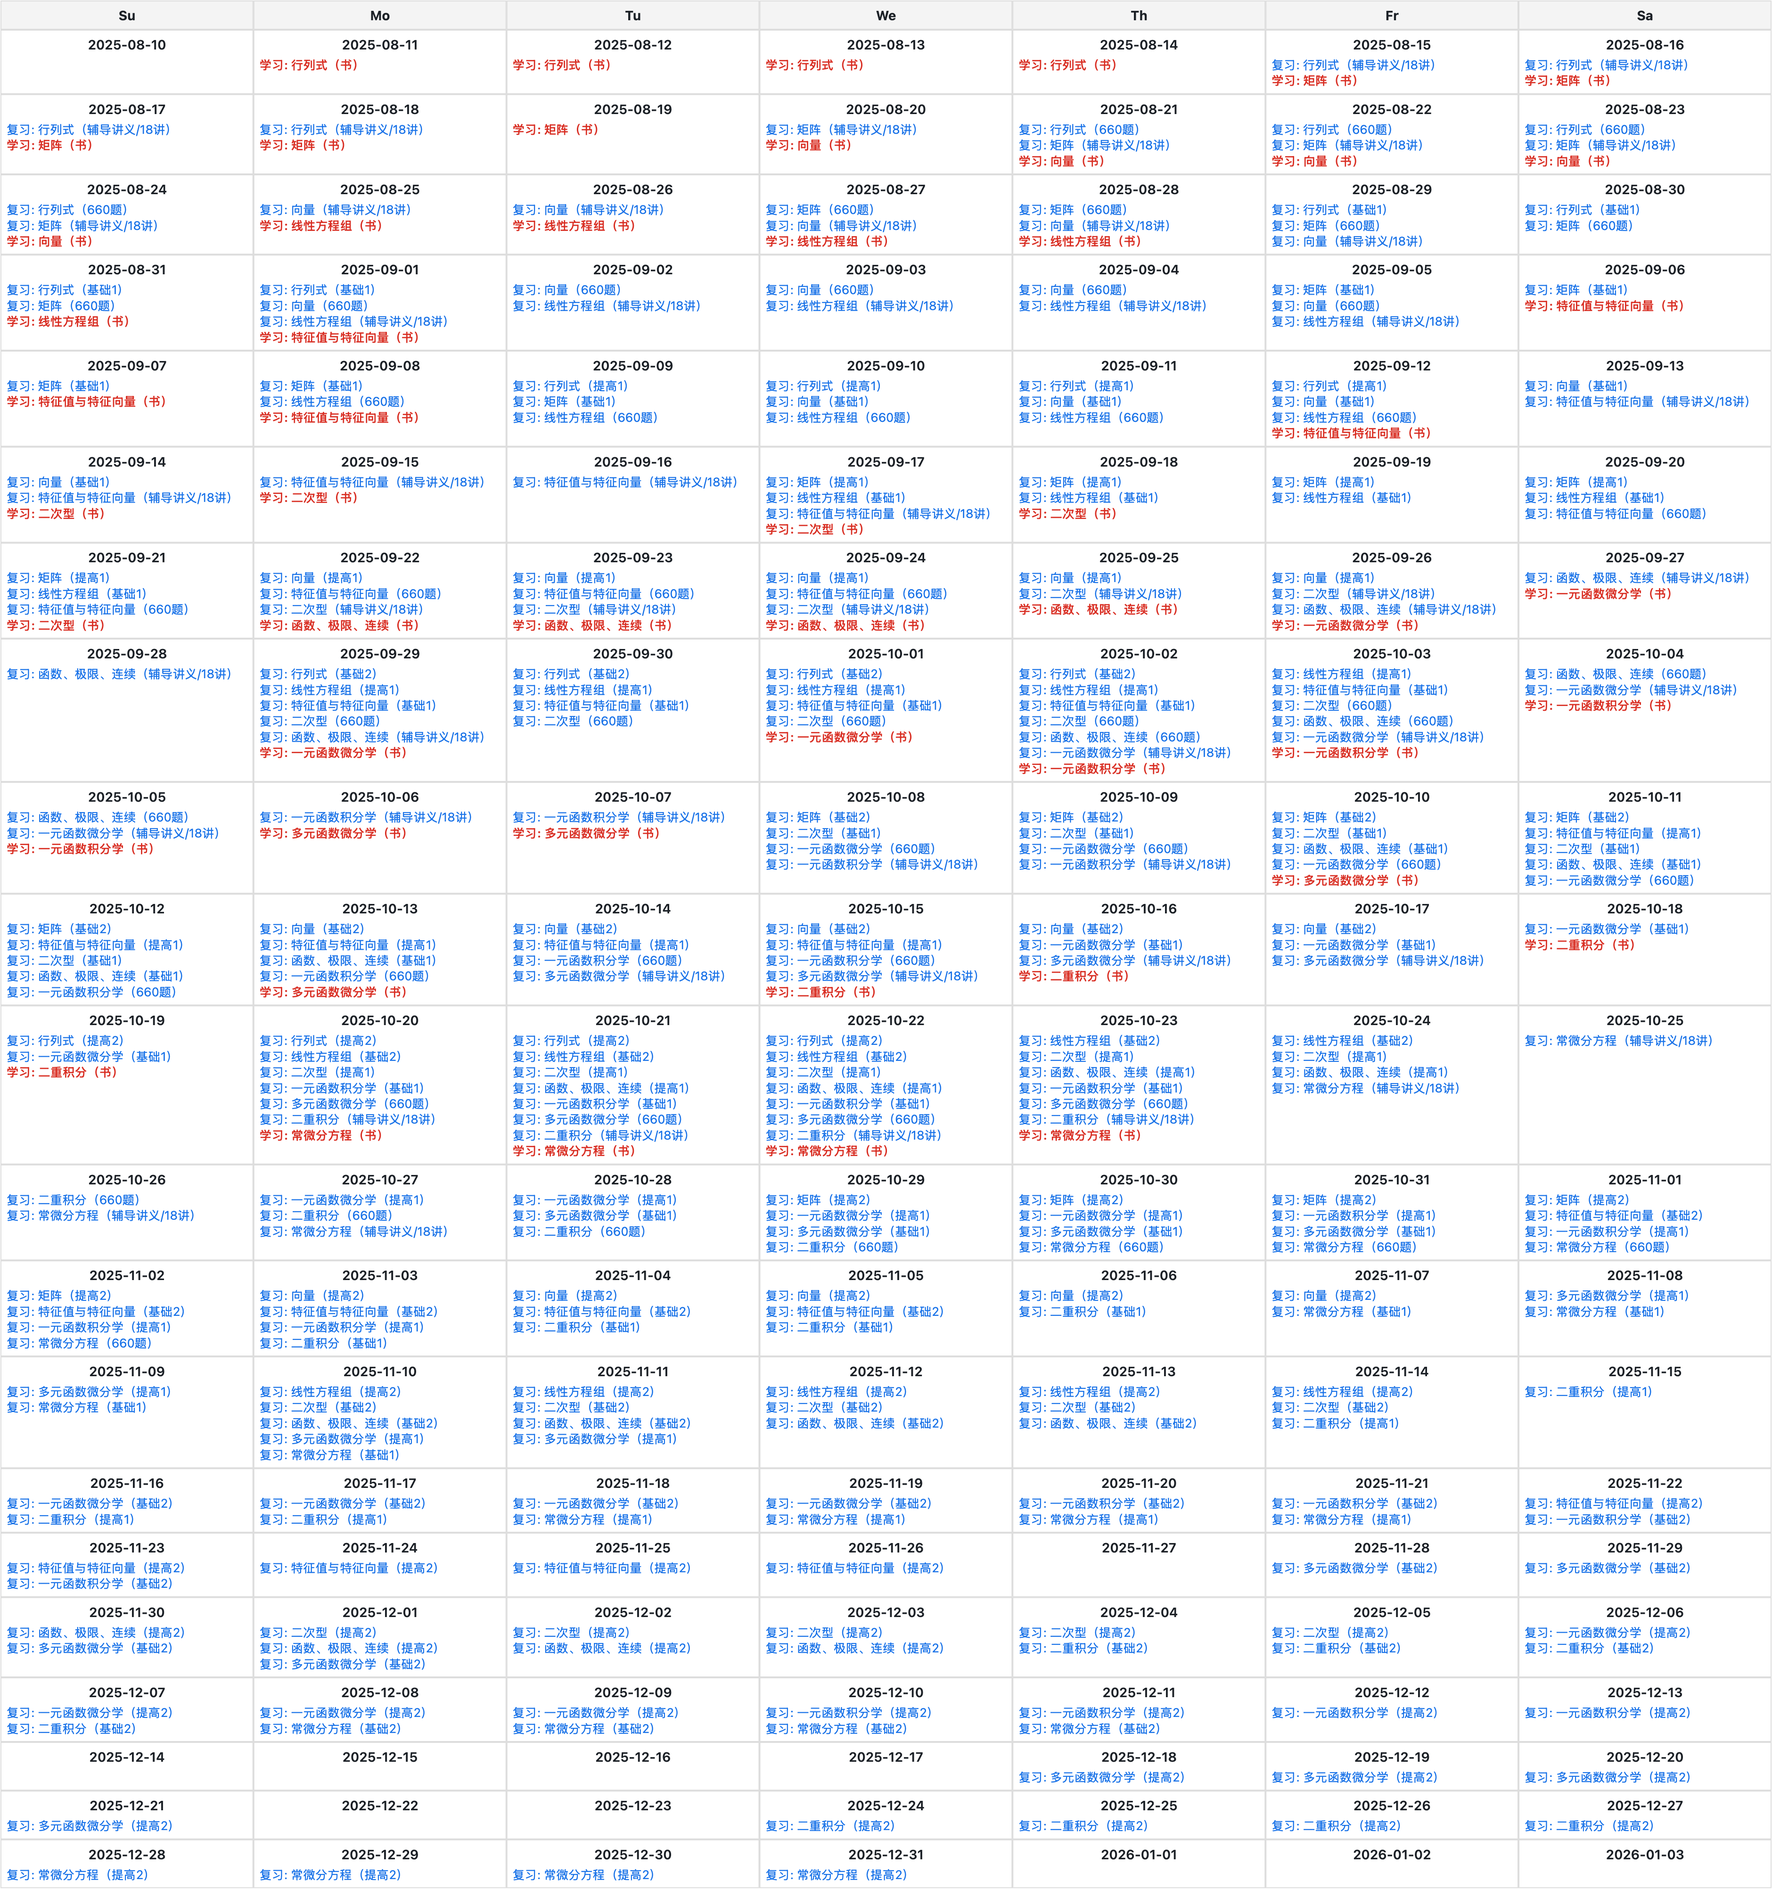
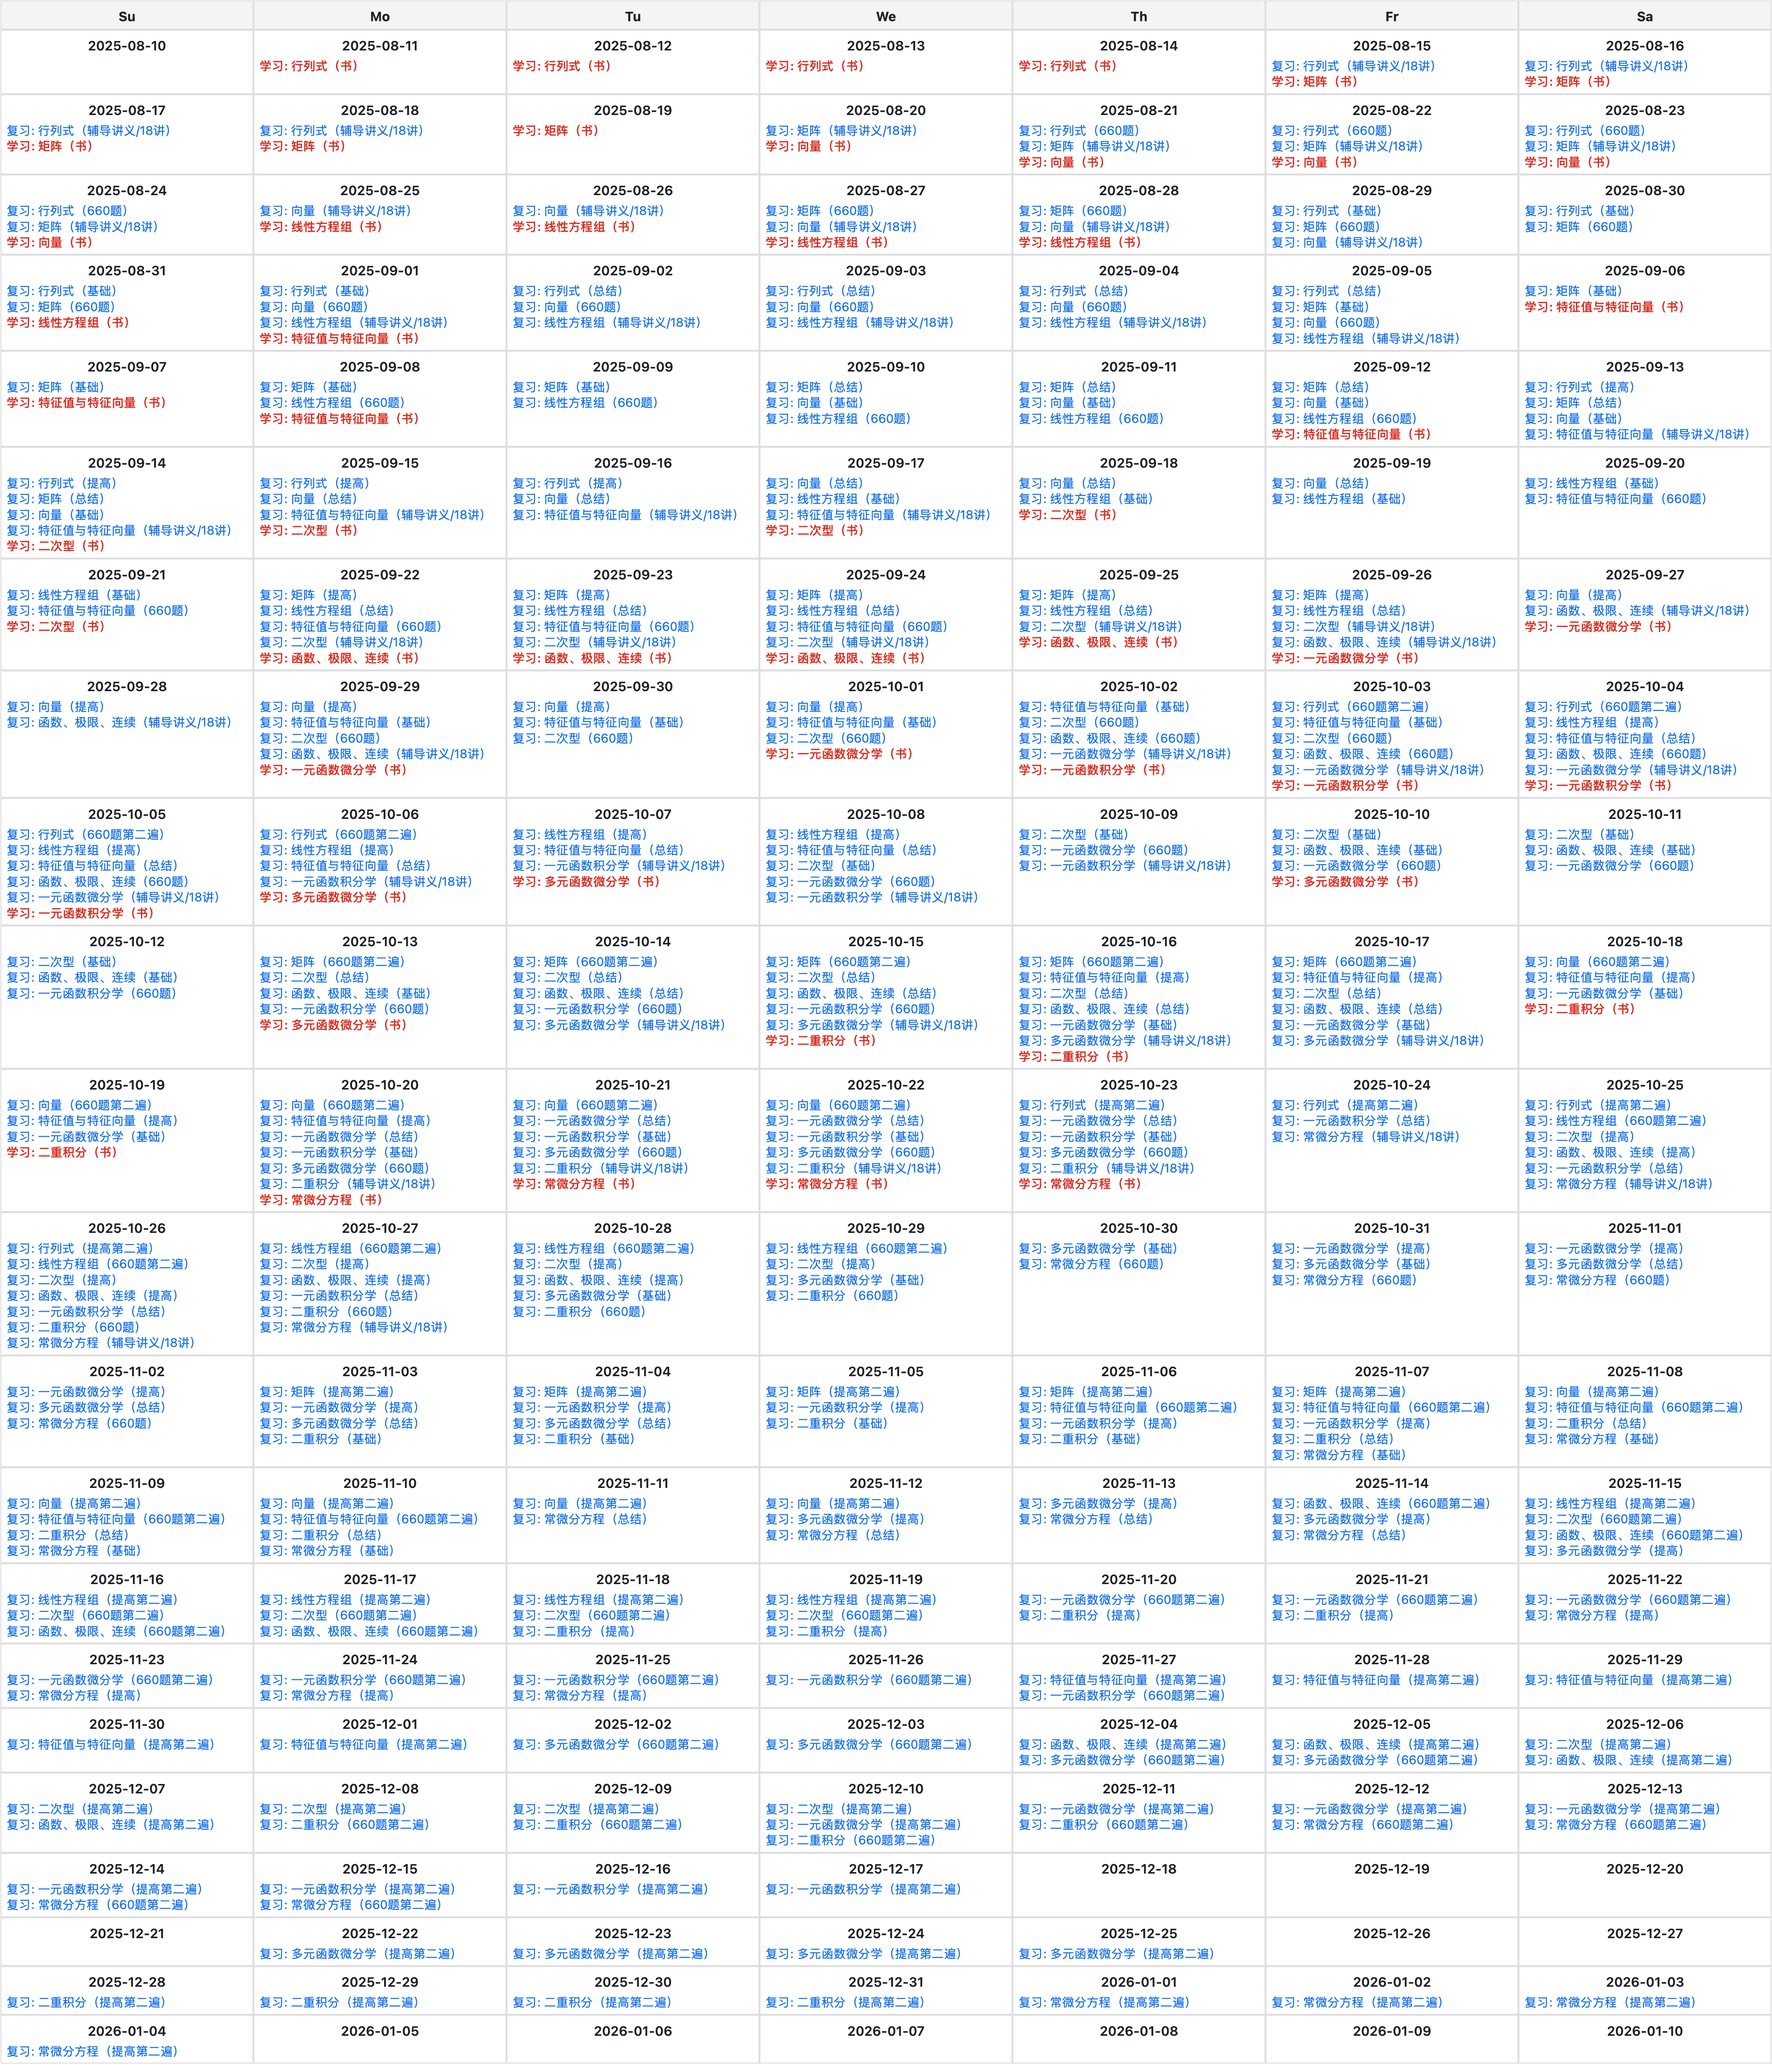
update: p15-p17, p36-p38

Changed region(s): [[0.0, 0.0, 1.0, 1.0]]

diff --git a/utils/html/generate-forgetting-curve-with-task-duration.html b/utils/html/generate-forgetting-curve-with-task-duration.html
@@ -48,6 +48,7 @@
     </div>
 
     <label>复习周期（逗号分隔，表示同一个任务各次复习之间的间隔天数）:
+<!-- 数学：加入总结后： 0,2,4,0,7,16,16      -->
         <input type="text" id="review-days" value="0,2,4,7,16,16" style="width:320px;">
     </label>
 
@@ -155,10 +156,11 @@
     '书',
     '辅导讲义/18讲',
     '660题',
-    '基础1',
-    '提高1',
-    '基础2',
-    '提高2'
+    '基础',
+    '总结',
+    '提高',
+    '660题第二遍',
+    '提高第二遍'
   ];
 
   function addRoundInput(val='第n轮'){

diff --git a/english/word/simple-word/markdown/p15-p17.md b/english/word/simple-word/markdown/p15-p17.md
@@ -18,7 +18,7 @@
 - warn
     - v. 警告，告诫
     - warn of 发出...的警告
-        - ...to warn of the doom(厄运) of biomedical(生物医学) research.
+        - ...to <u>warn of</u> the doom(厄运) of biomedical([ˌbaɪoʊˈmedɪkl] 生物医学) research.
     - warning n. 警告，告诫
 - wealth
     - n. 财富，丰富
@@ -30,7 +30,7 @@
     - adj./adv. 单独的，孤独的
     - Washington alone has the power. 只有华盛顿才有权力
 - clean
-- continent
+- continent [ˈkɑːntɪnənt]
     - n. 大陆，洲
     - the Old Continent 欧洲大陆
 - dam
@@ -50,6 +50,7 @@
 - phrase [freɪz]
     - n. 短语
     - The phrase "flagged up" is the closest in meaning to... 短语“flagged up”在意思上最接近于...
+    - phase [freɪz] n. 阶段; 时期
 - player
     - n. 游戏者；运动员
 - post
@@ -75,7 +76,7 @@
         - to help families weather bad times(时期)
 - widely
     - adv. 普遍地，广泛地
-- attempt
+- attempt [əˈtempt]
     - v./n. 尝试，试图
     - attempt to do sth 尝试做
         - In his work，he attempted to show how all aspects(方面) of culture changed.
@@ -83,8 +84,8 @@
 - annual [ˈænjuəl]
     - adj. 每年的，年度的； n. 年报，年刊
     - ann- 年
-    - The new vaccine(n. 疫苗), which is different from the annual vaccine.
-    - anniversary n. 周年纪念 [ˌænɪˈvɜːrsəri]
+    - The new vaccine([vækˈsiːn] n. 疫苗), which is different from the annual vaccine.
+    - anniversary [ˌænɪˈvɜːrsəri] n. 周年纪念 
 - cheap
     - adj. 劣质的；便宜的；
     - affordable/inexpensive 便宜的
@@ -111,7 +112,7 @@
     - n. 痛苦，疼痛
     - no pain，no gain 不劳无获
 - plate
-    - n. **盘子**，碟子；金属板；**板块**
+    - n. **板块**，**盘子**，碟子；金属板；
     - 板块
         - The motion of the plates corresponds(对应) to that of the earth's interior(内部的).
 - royal [ˈrɔɪəl]
@@ -150,17 +151,18 @@
 - sun
 - wind
     - n. 风；v. 缠，绕
-    - Wind the bandage(绷带) around your finger.
+    - Wind the bandage([ˈbændɪdʒ] 绷带) around your finger.
 - activity
     - n. 活动
     - active adj. 活跃的
 - citizen
     - n. 市民，公民
+    - civilization n. 文明; 文明社会;
 - editor [ˈedɪtər]
     - n. 编辑，编者
     - edit vt. 编辑；剪辑
-        - Moral(道德) awareness(意识) matters in editing a newspaper. 道德意识在编辑报纸时很重要
-    - edition [ɪˈdɪʃn] n. 版本 
+        - Moral([ˈmɔːrəl] 道德) awareness([əˈwernəs] 意识) matters in editing a newspaper. 道德意识在编辑报纸时很重要
+    - edition [ɪˈdɪʃn] n. 版本
 - fuel [ˈfjuːəl]
     - n. 燃料；v. 给...加燃料
     - v. 给...加燃料
@@ -211,7 +213,7 @@
     - adj. 危险的
     - danger n. 危险；危险事物，威胁
         - in danger 处于危险当中
-        - The church reminded worshippers(信徒) that their souls(灵魂) were in danger.
+        - The church reminded worshippers([ˈwɜːrʃɪpər] 信徒) that their souls(灵魂) were in danger.
     - dangerously adv. 危险地
 - diet [ˈdaɪət]
     - n. 日常饮食； vi. 节食
@@ -252,7 +254,8 @@
         - mass-market(大众市场) labels such as Zara，H&M，and Uniqlo.
         - mass n. 一团; 大堆; 大量; 块; 民众; 大部分;
     - label...as 把...称为
-        - Today we have a tendency([ˈtendənsi] 趋势) to <u>label</u> obesity([oʊˈbisəti] 肥胖) <u>as</u> a disgrace([dɪsˈɡreɪs] 耻辱).
+        - Today we have a tendency([ˈtendənsi] 趋势) to <u>label</u> obesity([oʊˈbisəti] 肥胖) <u>as</u> a
+          disgrace([dɪsˈɡreɪs] 耻辱).
 - manner
     - n. 态度，举止；风度；方法，方式
     - man- 手
@@ -297,6 +300,7 @@
     - v.燃烧； n. 烧伤
     - bur- 燃烧
     - This suggests that dimmer bulbs([bʌlb] 暗淡) burn longer. 这表明，调暗的灯泡燃烧的时间更长
+    - born v. 出生; 天生;
 - complain
     - vi. 抱怨，诉苦
     - com- 共同，一起
@@ -316,11 +320,13 @@
     - put forward 提出
         - Gerbert Spencer put forward his own theory([ˈθiːəri] 理论) of cultural evolution(进化).
     - adj. 向前的
-        - The court's([kɔːrt]) ruling is a step forward(向前的一步) in the struggle([ˈstrʌɡl] 斗争) against corruption([kəˈrʌpʃn] 腐败).
+        - The court's([kɔːrt]) ruling is a step forward(向前的一步) in the struggle([ˈstrʌɡl] 斗争) against
+          corruption([kəˈrʌpʃn] 腐败).
     - vt. 转递
 - garden
     - n. 花园
     - gardener n. 园工
+    - gender n. 性别
 - harmful
     - adj. 有害的
     - be harmful to 有害
@@ -338,6 +344,7 @@
     - n. 杂志，期刊
     - mag- == mac- == mat- 揉，捏；力量
     - imagine [ɪˈmædʒɪn] v. 想象; 猜测; 臆想; 认为
+    - journal n. 期刊
 - meanwhile
     - adv. 与此同时
         - Meanwhile，it has more than $120 billion...
@@ -349,13 +356,14 @@
         - adj. 吝啬的，小气的
             - She is a mean old woman.
         - mean, meant, meant, meaning
-- medicine
+- medicine [ˈmedɪsn]
     - n. 内服药；医学
     - medic- 药物
     - 药物
         - The program has provided enough food and medicine.
     - 医学
-        - Modern medicine has prolonged the physical([ˈfɪzɪkl]) agony([ˈæɡəni] n. 极度痛苦; 创痛) of dying. 现代医学延长了死亡的肉体痛苦
+        - Modern medicine has prolonged the physical([ˈfɪzɪkl]) agony([ˈæɡəni] n. 极度痛苦; 创痛) of dying.
+          现代医学延长了死亡的肉体痛苦
     - medical adj. 医疗的，药物的
 - party
     - n. **党派**，政党；**当事人**；聚会
@@ -364,10 +372,11 @@
 - path
     - n. 小路
     - pathway n. 小路，小径
+    - lane n. 小路; 小巷;
 - please [pliːz]
     - vt. 使高兴
     - Be easily pleased
-    - pleasure n. 高兴，愉悦
+    - pleasure [ˈpleʒər] n. 高兴，愉悦
         - Happiness is <u>more than(+n. 不仅仅)</u> pleasure without pain. 幸福不仅仅是没有痛苦的快乐
     - pleasant adj. 愉悦的
         - He had such a pleasant, readable style. 他的写作风格令人愉快，读起来很有趣
@@ -376,7 +385,7 @@
 - police [pəˈliːs]
     - n. 警察部门，警方
     - the police 警方
-    - polite adj. 有礼貌的
+    - polite [pəˈlaɪt] adj. 有礼貌的
     - politics [ˈpɑːlətɪks] n. 政治，政治学
     - policy [ˈpɑːləsi] n. 政策
         - policymaker 政策制定者
@@ -419,7 +428,7 @@
         - dropped, sitting, beginning
 - quick
     - adj. 快的，快速的
-- cite
+- cite [saɪt]
     - vt. 引用，引证
     - cit- 引用，唤起
         - recite 背诵
@@ -427,6 +436,7 @@
         - incite 激励
     - 出现在阅读题题干中是例证题的标志
         - ![Example](https://uy.wzznft.com/i/2025/08/16/s7bio8.png)
+    - cute [kjuːt] adj. 漂亮迷人的; 有性吸引力的; 精明的
 - admit
     - vt. 允许...进入，承认
     - mit- == miss- 送
@@ -450,14 +460,14 @@
 - boy
 - cell
     - n. **细胞**；小牢房
-- certainly
+- certainly [ˈsɜːrtnli]
     - adv. 无疑，确定，当然
     - **certain** adj. 确定的
 - column
     - n. 专栏；圆柱
     - column chart 柱状图
-    - ...match each of the numbered items in the left column to its corresponding([ˌkɔːrəˈspɑːndɪŋ] 相应的) information in the right
-      column.
+    - ...match each of the numbered items in the left column to its corresponding([ˌkɔːrəˈspɑːndɪŋ] 相应的) information
+      in the right column.
 - crop [krɑːp]
     - n. 庄稼；收成； vt. 有收成
     - vt. 有收成

diff --git a/english/word/simple-word/markdown/p36-p38.md b/english/word/simple-word/markdown/p36-p38.md
@@ -10,11 +10,11 @@
     - n. 殖民者；移民
         - the early settlers of Massachusetts Bay
     - settle v. **解决，处理，定居**；结束争论
-        - It will settle the prior controversies.
+        - It will settle the prior([ˈpraɪər] adj. 优先的;) controversies([ˈkɑːntrəvɜːrsi] n. 争论; 辩论).
 - hugely
     - adv. 极度；非常
 - flag
-    - n.旗帜，旗
+    - n. 旗帜，旗
 - **petrol**/gasoline/gasolene [ˈpetrəl]
     - n. 汽油
     - peter- 石头
@@ -37,7 +37,7 @@
     - adv. 很大程度上；大量地
 - reproduce
     - v. **再现**，复制；繁殖，生殖
-    - reproducible 再现的
+    - reproducible [ˌriprə'djusəbl] 再现的
         - Our science([ˈsaɪəns]) is both meaningful and reproducible.
     - produce v. 生产，制造
         - The country produces only about 60 percent of the food.
@@ -53,7 +53,7 @@
     - n. 彩票；碰运气的事
 - vessel [ˈvesl]
     - n. **穿，舰；血管**；容器
-    - Today's vessel can find their prey using satellites and sonar.
+    - Today's vessel can find their prey([preɪ]) using satellites([ˈsætəlaɪt] n. 卫星; 人造卫星;) and sonar([ˈsoʊnɑːr] n. 声呐装置).
     - blood vessel
 - backyard
     - n. 后院
@@ -79,7 +79,7 @@
     - vi. 偷，行窃； vt. 偷盗，窃取
     - Dishonest person might be able to steal from someone else's accounts
     - steal - stole - stolen
-    - stalk v. 偷偷接近，跟踪
+    - stalk [stɔːk] v. 偷偷接近，跟踪
 - afraid
     - adj. 害怕的
     - be afraid of
@@ -103,17 +103,17 @@
 - readership
     - n. 全体读者
     - -ship 表示一个集体或一个关系
-- fancy
+- fancy [ˈfænsi]
     - n. **想象力；幻想** vt. 喜欢；想象
     - You'll sometimes change your mind about what you fancy.
-- bubble
+- bubble [ˈbʌbl]
     - n. 泡泡，水泡
 - grateful
     - adj. 感激的，感谢的
     - grat- 感激，高兴
         - gratitude n. 感激，感谢
     - be grateful to sb. for sth. 因某事而感激某人
-        - We <u>are particularly</u> grateful <u>to him for</u> his timely help.
+        - We <u>are</u>  particularly <u>grateful to him for</u> his timely help.
 - dot
     - n. 点； vt. 点缀，打点与
 - pave [peɪv]
@@ -122,7 +122,7 @@
     - cave 山洞
     - wave 波动
     - 住在山洞cave，用脚铺路pave；看到水流wave
-- fool
+- fool [fuːl]
     - vt. **愚弄** n. 笨蛋
     - foolish adj. 愚蠢的；荒谬的
 - nationally [ˈnæʃənlɪ]
@@ -145,7 +145,7 @@
 - eighty
 - quarrel [ˈkwɑːrəl]
     - n. 争吵，不和
-    - oral adj. 口头的
+    - oral [ˈɔːrəl] adj. 口头的
 - repair
     - vt. 修理，修补
 - makeup
@@ -202,7 +202,7 @@
     - n. 神秘性，神秘的事或人
 - mild
     - adj. 温和的；温暖的
-    - wild
+    - wild [waɪld] adj. 野生的；荒凉的
 - slogan
     - n. 标语，口号
 - shy [ʃaɪ]
@@ -251,7 +251,7 @@
     - The new land was carved into 13 states，including three slave states.
 - twin
     - n. 双胞胎； adj. 孪生的
-- elder
+- elder [ˈeldər]
     - adj. 年龄大的，年长的； n.（pl. ）长者，长辈
     - older
 - kick [kɪk]
@@ -263,11 +263,11 @@
 - rank
     - n. 等级，排； vt. 把...分等级；排列
     - Last year，he was ranked second in his age group.
-    - range n. 范围，排序
+    - range [reɪndʒ] n. 范围，排序
         - orange
 - calendar
     - n. 日历，日程表
-    - the lunar calendar 农历
+    - the lunar([ˈluːnər]) calendar 农历
     - the solar calendar 公历
 - bedroom
 - knight [naɪt]
@@ -294,7 +294,7 @@
     - adv. 完全地，十足地; 纯粹地;
 - enjoyable
     - adj. 有乐趣的; 令人愉快的
-- slim
+- slim [slɪm]
     - adj. 苗条的；纤细的
 - cabin [ˈkæbɪn]
     - n. 机舱，船舱；小木屋
@@ -323,7 +323,7 @@
     - cite- 引用；唤起
 - blood [blʌd]
     - n. 血液
-    - bleed v. 流血
+    - bleed [bliːd] v. 流血
 - keyword
 - quarterly [ˈkwɔːrtərli]
     - adj. 极度的；每季的
